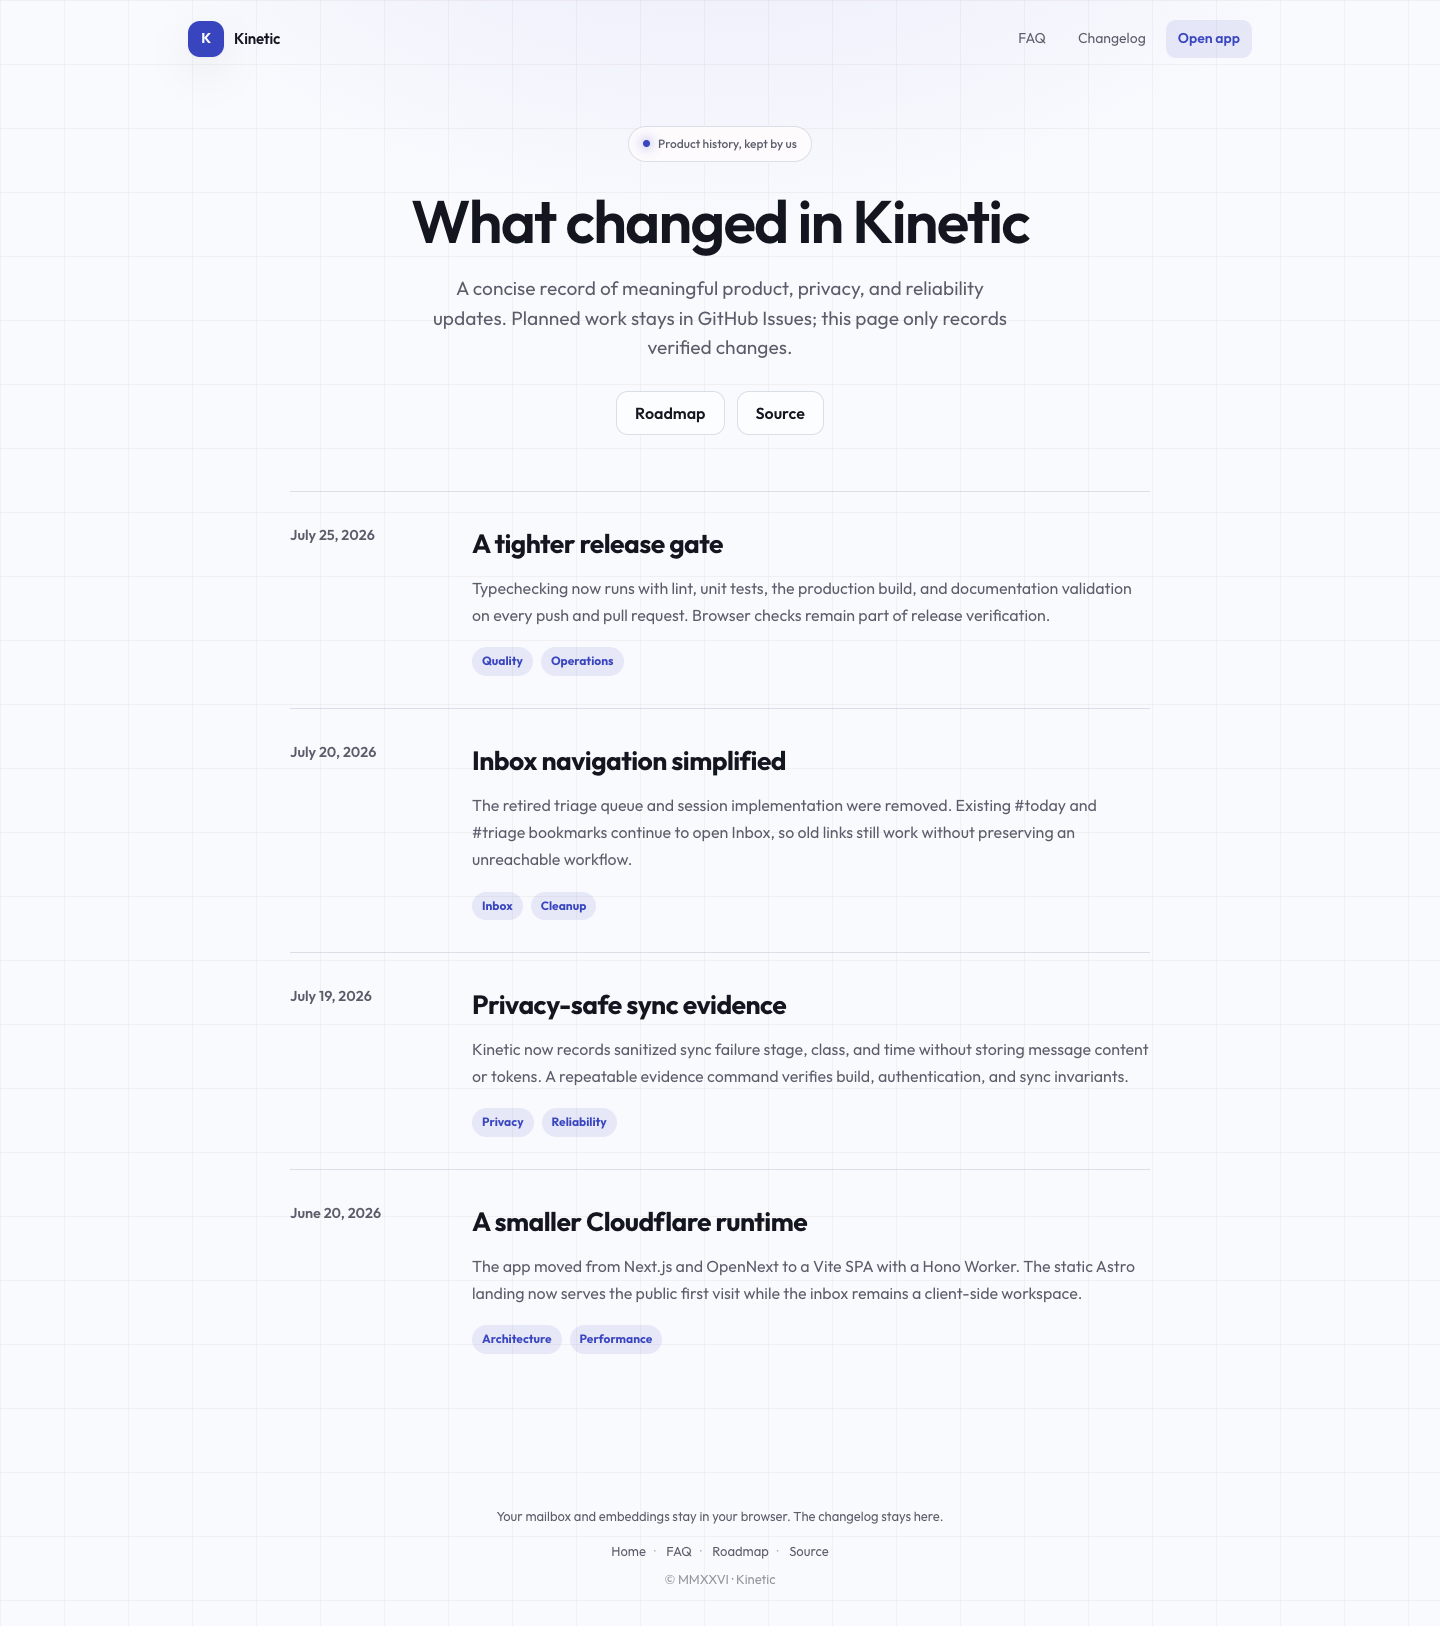
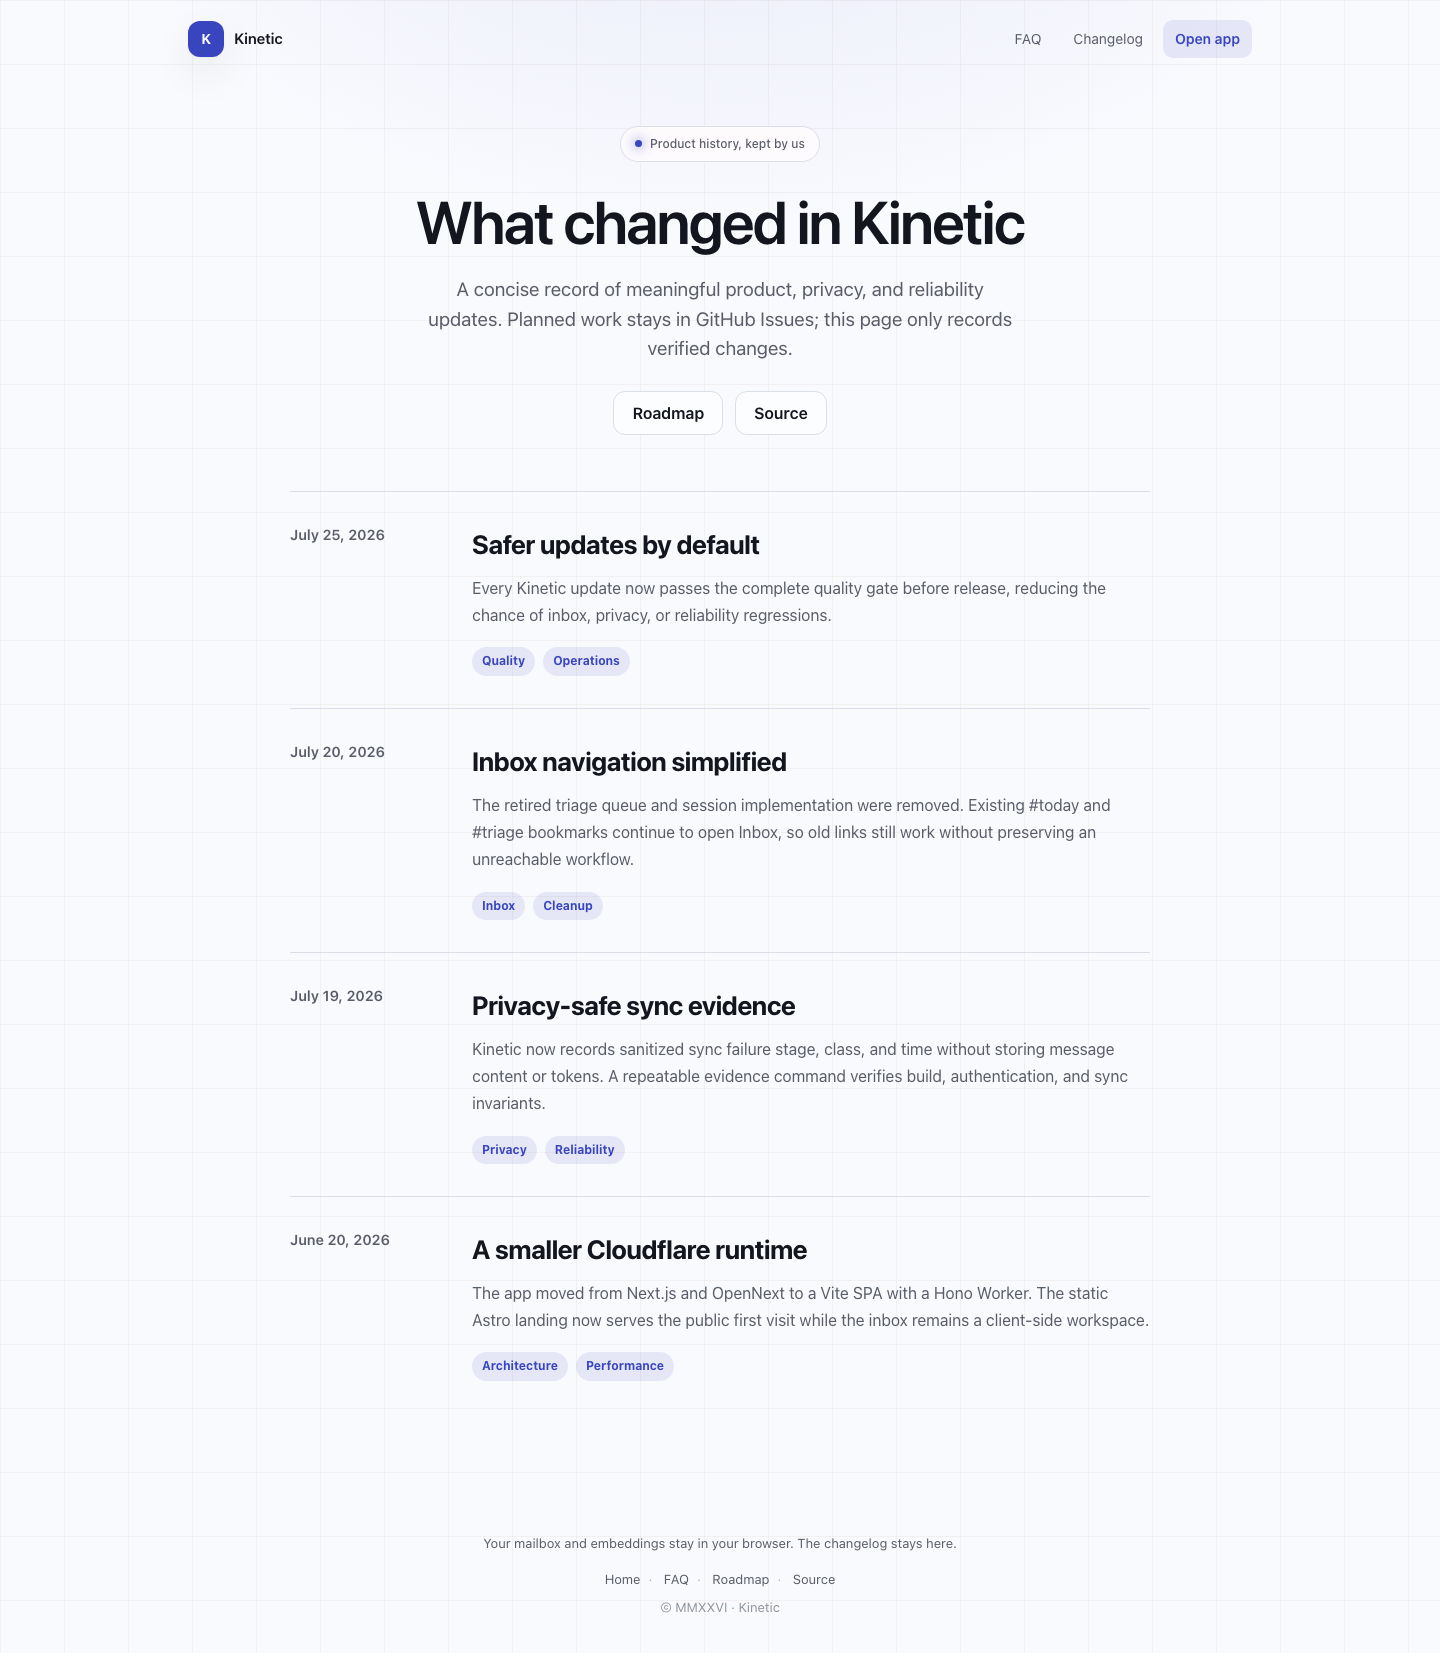
Clarify the public changelog (#27)
* Clarify the public changelog

* fix(seo): describe Kinetic with structured data

diff --git a/PROJECT_STATUS.md b/PROJECT_STATUS.md
@@ -52,9 +52,7 @@ Last updated: 2026-07-31
 
 ## Timeline
 
-- **2026-07-31:** Completed the public homepage search metadata with canonical
-  structured product data and a concise description while preserving the
-  local-first, read-only Gmail boundary.
+- **2026-07-31:** Reframed the newest changelog entry around its user-facing reliability outcome and refreshed the 390px, 768px, and 1440px design evidence; the preserve-lane critique now passes at 36/40.
 - **2026-07-30:** Attached `mail.significanthobbies.com` to the existing `email-manager` Worker without deploying a new script. The old hostname remains attached until the new Google OAuth callback is registered and verified.
 - **2026-07-29:** Added the first-party `/changelog` surface to the Astro public site. The page records verified product history, keeps planned work in GitHub Issues, and links to the canonical `Significant-Hobbies/email-manager` source repository.
 - **2026-07-25:** Removed the redundant general weekly quality workflow. Typechecking now runs in the required push/PR CI job alongside lint, unit tests, build, and docs validation; Playwright remains a release-relevant local check. The privacy-safe Foundry evidence snapshot remains the only recurring GitHub Action.
